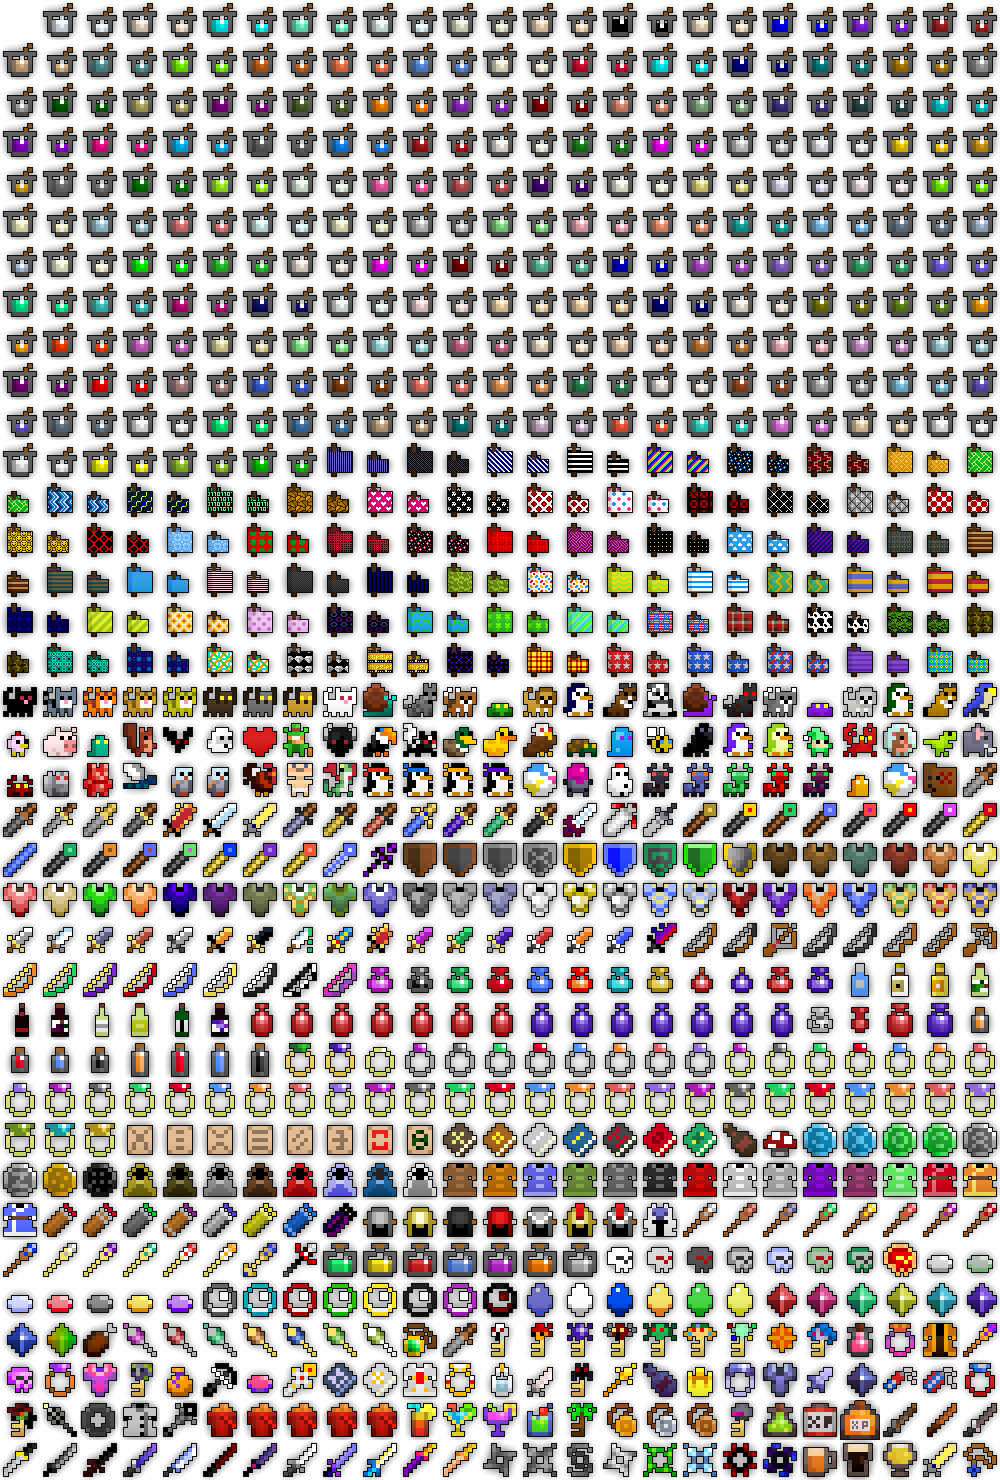
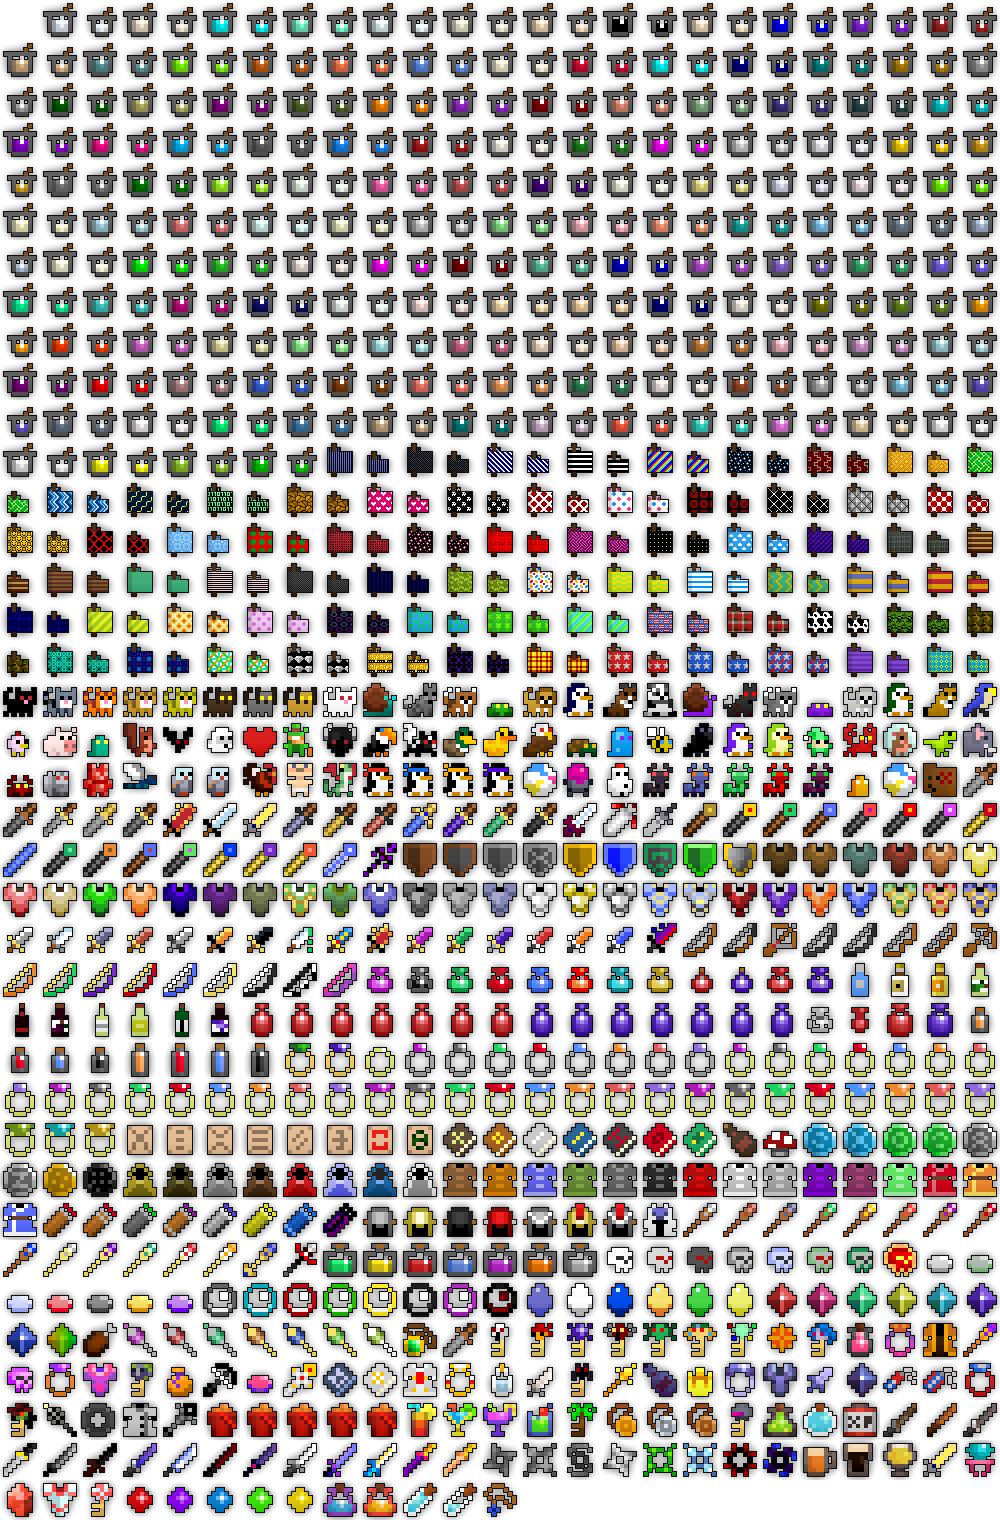
3.1

diff --git a/lib/constants.js b/lib/constants.js
@@ -512,8 +512,8 @@ items = {
 0xa84: ["Archon Sword", 1, 10, 360, 800, 2],
 0xa47: ["Skysplitter Sword", 1, 11, 400, 800, 3],
 0xb0b: ["Sword of Acclaim", 1, 12, 440, 800, 4],
-0xaf4: ["Sword of Splendor", 1, 13, 480, 800, 4],
-0xaf5: ["Sword of Majesty", 1, 14, 520, 800, 5],
+0xaf4: ["Sword of Splendor", 1, -1, 480, 800, 4],
+0xaf5: ["Sword of Majesty", 1, -1, 520, 800, 5],
 0xa03: ["Crystal Sword", 1, -1, 560, 800, 4],
 0xc01: ["Demon Blade", 1, -1, 600, 800, 6],
 0xc05: ["Ancient Stone Sword", 1, -1, 640, 800, 4],
@@ -531,8 +531,8 @@ items = {
 0xa86: ["Wand of Shadow", 8, 10, 120, 840, 2],
 0xa87: ["Wand of Ancient Warning", 8, 11, 160, 840, 3],
 0xaf6: ["Wand of Recompense", 8, 12, 200, 840, 4],
-0xaf7: ["Wand of Evocation", 8, 13, 240, 840, 4],
-0xaf8: ["Wand of Retribution", 8, 14, 280, 840, 5],
+0xaf7: ["Wand of Evocation", 8, -1, 240, 840, 4],
+0xaf8: ["Wand of Retribution", 8, -1, 280, 840, 5],
 0xb3f: ["Crystal Wand", 8, -1, 320, 840, 4],
 0xc04: ["Wand of the Bulwark", 8, -1, 360, 840, 6],
 0xa08: ["Wooden Shield", 5, 0, 400, 840, 0],
@@ -558,8 +558,8 @@ items = {
 0xa8f: ["Hippogriff Hide Armor", 6, 10, 200, 880, 3],
 0xa90: ["Griffon Hide Armor", 6, 11, 240, 880, 4],
 0xaf9: ["Hydra Skin Armor", 6, 12, 280, 880, 4],
-0xafa: ["Wyrmhide Armor", 6, 13, 320, 880, 5],
-0xafb: ["Leviathan Armor", 6, 14, 360, 880, 6],
+0xafa: ["Wyrmhide Armor", 6, -1, 320, 880, 5],
+0xafb: ["Leviathan Armor", 6, -1, 360, 880, 6],
 0xa7b: ["Iron Mail", 7, 0, 400, 880, 0],
 0xa0f: ["Chainmail", 7, 1, 440, 880, 0],
 0xa7c: ["Blue Steel Mail", 7, 2, 480, 880, 0],
@@ -573,8 +573,8 @@ items = {
 0xa92: ["Vengeance Armor", 7, 10, 800, 880, 3],
 0xa93: ["Abyssal Armor", 7, 11, 840, 880, 4],
 0xafc: ["Acropolis Armor", 7, 12, 880, 880, 4],
-0xafd: ["Dominion Armor", 7, 13, 920, 880, 5],
-0xafe: ["Annihilation Armor", 7, 14, 960, 880, 6],
+0xafd: ["Dominion Armor", 7, -1, 920, 880, 5],
+0xafe: ["Annihilation Armor", 7, -1, 960, 880, 6],
 0xa14: ["Steel Dagger", 2, 0, 0, 920, 0],
 0xa15: ["Dirk", 2, 1, 40, 920, 0],
 0xa72: ["Blue Steel Dagger", 2, 2, 80, 920, 0],
@@ -589,8 +589,8 @@ items = {
 0xa89: ["Emeraldshard Dagger", 2, 10, 440, 920, 2],
 0xa8a: ["Agateclaw Dagger", 2, 11, 480, 920, 3],
 0xaff: ["Dagger of Foul Malevolence", 2, 12, 520, 920, 4],
-0xb00: ["Dagger of Sinister Deeds", 2, 13, 560, 920, 4],
-0xb01: ["Dagger of Dire Hatred", 2, 14, 600, 920, 5],
+0xb00: ["Dagger of Sinister Deeds", 2, -1, 560, 920, 4],
+0xb01: ["Dagger of Dire Hatred", 2, -1, 600, 920, 5],
 0xc0a: ["Dirk of Cronus", 2, -1, 640, 920, 6],
 0xa1a: ["Shortbow", 3, 0, 680, 920, 0],
 0xa75: ["Reinforced Bow", 3, 1, 720, 920, 0],
@@ -605,8 +605,8 @@ items = {
 0xa8c: ["Bow of Fey Magic", 3, 10, 80, 960, 2],
 0xa8d: ["Bow of Innocent Blood", 3, 11, 120, 960, 3],
 0xb02: ["Bow of Covert Havens", 3, 12, 160, 960, 4],
-0xb03: ["Bow of Mystical Energy", 3, 13, 200, 960, 4],
-0xb04: ["Bow of Deep Enchantment", 3, 14, 240, 960, 5],
+0xb03: ["Bow of Mystical Energy", 3, -1, 200, 960, 4],
+0xb04: ["Bow of Deep Enchantment", 3, -1, 240, 960, 5],
 0xc02: ["Doom Bow", 3, -1, 280, 960, 6],
 0xc10: ["Coral Bow", 3, -1, 320, 960, 6],
 0xa1f: ["Potion of Attack", 10, 2, 360, 960, 0],
@@ -749,8 +749,8 @@ items = {
 0xa95: ["Robe of the Moon Wizard", 14, 10, 840, 1160, 3],
 0xa96: ["Robe of the Elder Warlock", 14, 11, 880, 1160, 4],
 0xb05: ["Robe of the Grand Sorcerer", 14, 12, 920, 1160, 4],
-0xb06: ["Robe of the Star Mother", 14, 13, 960, 1160, 5],
-0xb07: ["Robe of the Ancient Intellect", 14, 14, 0, 1200, 6],
+0xb06: ["Robe of the Star Mother", 14, -1, 960, 1160, 5],
+0xb07: ["Robe of the Ancient Intellect", 14, -1, 0, 1200, 6],
 0xa61: ["Magic Quiver", 15, 0, 40, 1200, 0],
 0xa62: ["Reinforced Quiver", 15, 1, 80, 1200, 0],
 0xa63: ["Iron Quiver", 15, 2, 120, 1200, 0],
@@ -780,8 +780,8 @@ items = {
 0xaa1: ["Staff of Diabolic Secrets", 17, 10, 80, 1240, 2],
 0xaa2: ["Staff of Astral Knowledge", 17, 11, 120, 1240, 3],
 0xb08: ["Staff of the Cosmic Whole", 17, 12, 160, 1240, 4],
-0xb09: ["Staff of the Vital Unity", 17, 13, 200, 1240, 4],
-0xb0a: ["Staff of the Fundamental Core", 17, 14, 240, 1240, 5],
+0xb09: ["Staff of the Vital Unity", 17, -1, 200, 1240, 4],
+0xb0a: ["Staff of the Fundamental Core", 17, -1, 240, 1240, 5],
 0xc03: ["Staff of Extreme Prejudice", 17, -1, 280, 1240, 6],
 0xaa3: ["Centipede Poison", 18, 0, 320, 1240, 0],
 0xaa4: ["Spider Venom", 18, 1, 360, 1240, 0],
@@ -924,7 +924,20 @@ items = {
 0xc5c: ["Oryx Stout", 10, -1, 840, 1440, 0],
 0xc5d: ["Realm-wheat Hefeweizen", 10, -1, 880, 1440, 0],
 0xc5e: ["Def Test Sword", 1, -1, 920, 1440, 0],
-0xae2: ["Strike Amulet", 4, -1, 960, 1440, 0],
+0xc5f: ["Ring Pop", 9, -1, 960, 1440, 0],
+0xc60: ["Rock Candy", 10, -1, 0, 1480, 0],
+0xc61: ["Candy-Coated Armor", 7, -1, 40, 1480, 4],
+0xc62: ["Candy Key", 10, -1, 80, 1480, 0],
+0xc63: ["Red Gumball", 10, -1, 120, 1480, 0],
+0xc64: ["Purple Gumball", 10, -1, 160, 1480, 0],
+0xc65: ["Blue Gumball", 10, -1, 200, 1480, 0],
+0xc66: ["Green Gumball", 10, -1, 240, 1480, 0],
+0xc67: ["Yellow Gumball", 10, -1, 280, 1480, 0],
+0xc68: ["Loot Tier Potion", 10, -1, 320, 1480, 0],
+0xc69: ["Loot Drop Potion", 10, -1, 360, 1480, 0],
+0xc6a: ["XP Booster 1 hr", 10, -1, 400, 1480, 0],
+0xc6b: ["XP Booster 20 min", 10, -1, 440, 1480, 0],
+0xae2: ["Strike Amulet", 4, -1, 480, 1480, 0],
 }
 
 // type: [id, starts, averages, maxes, slots]
